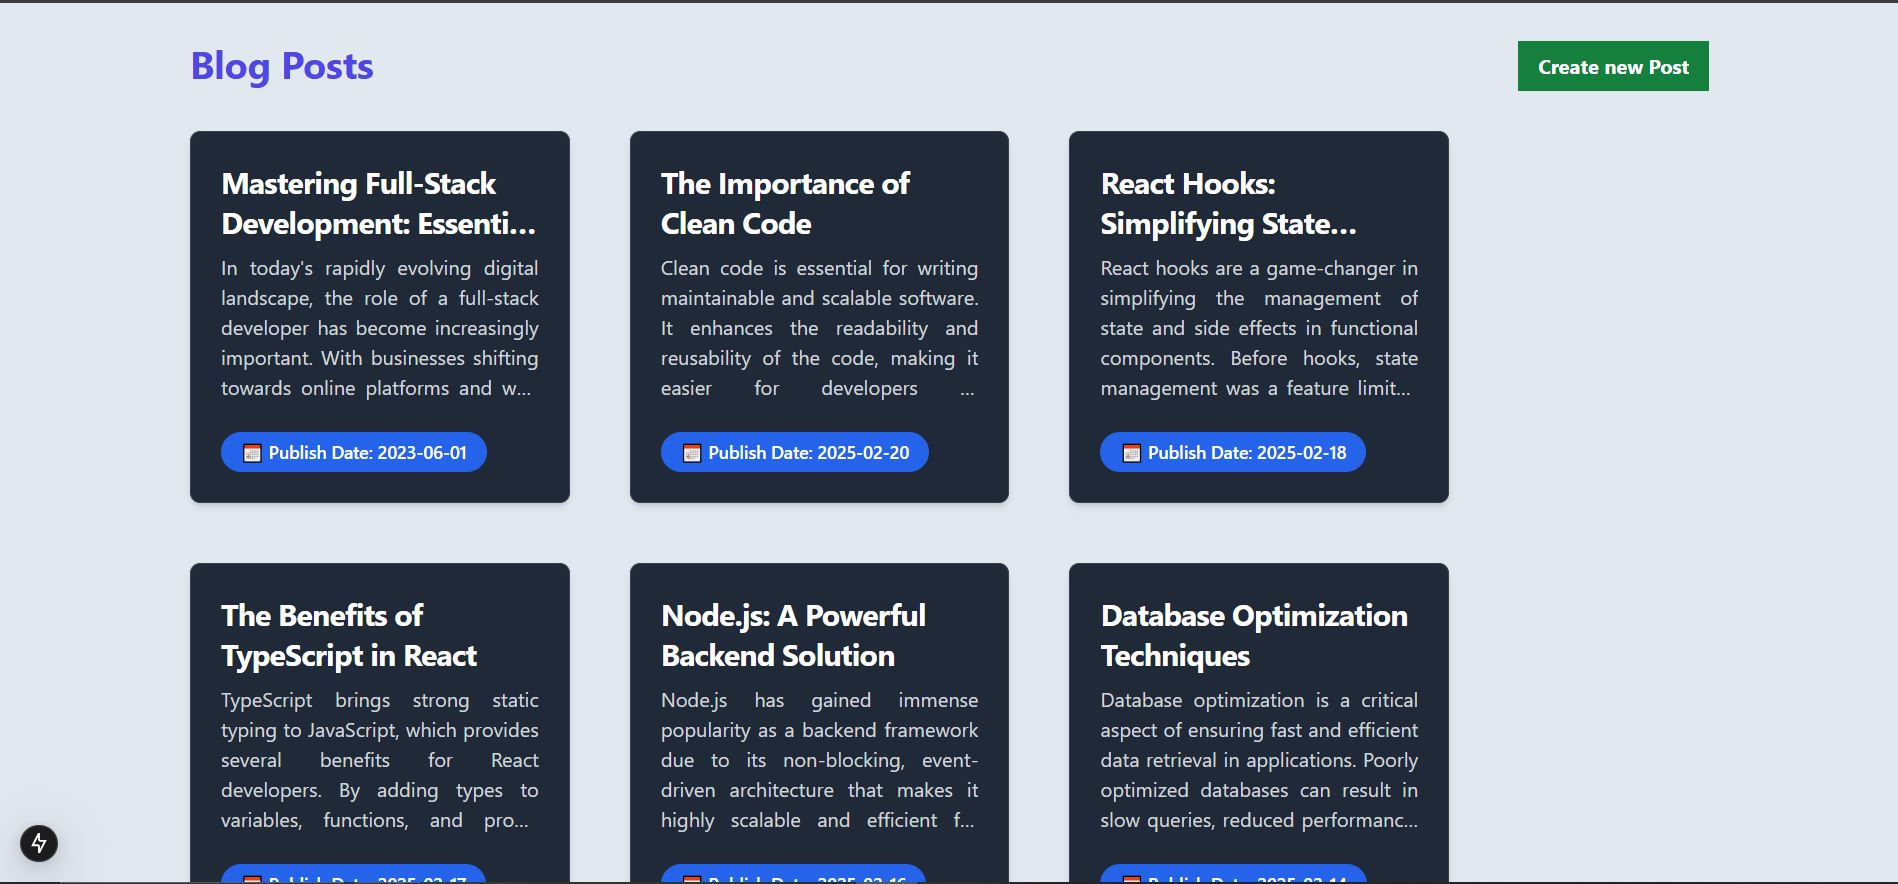
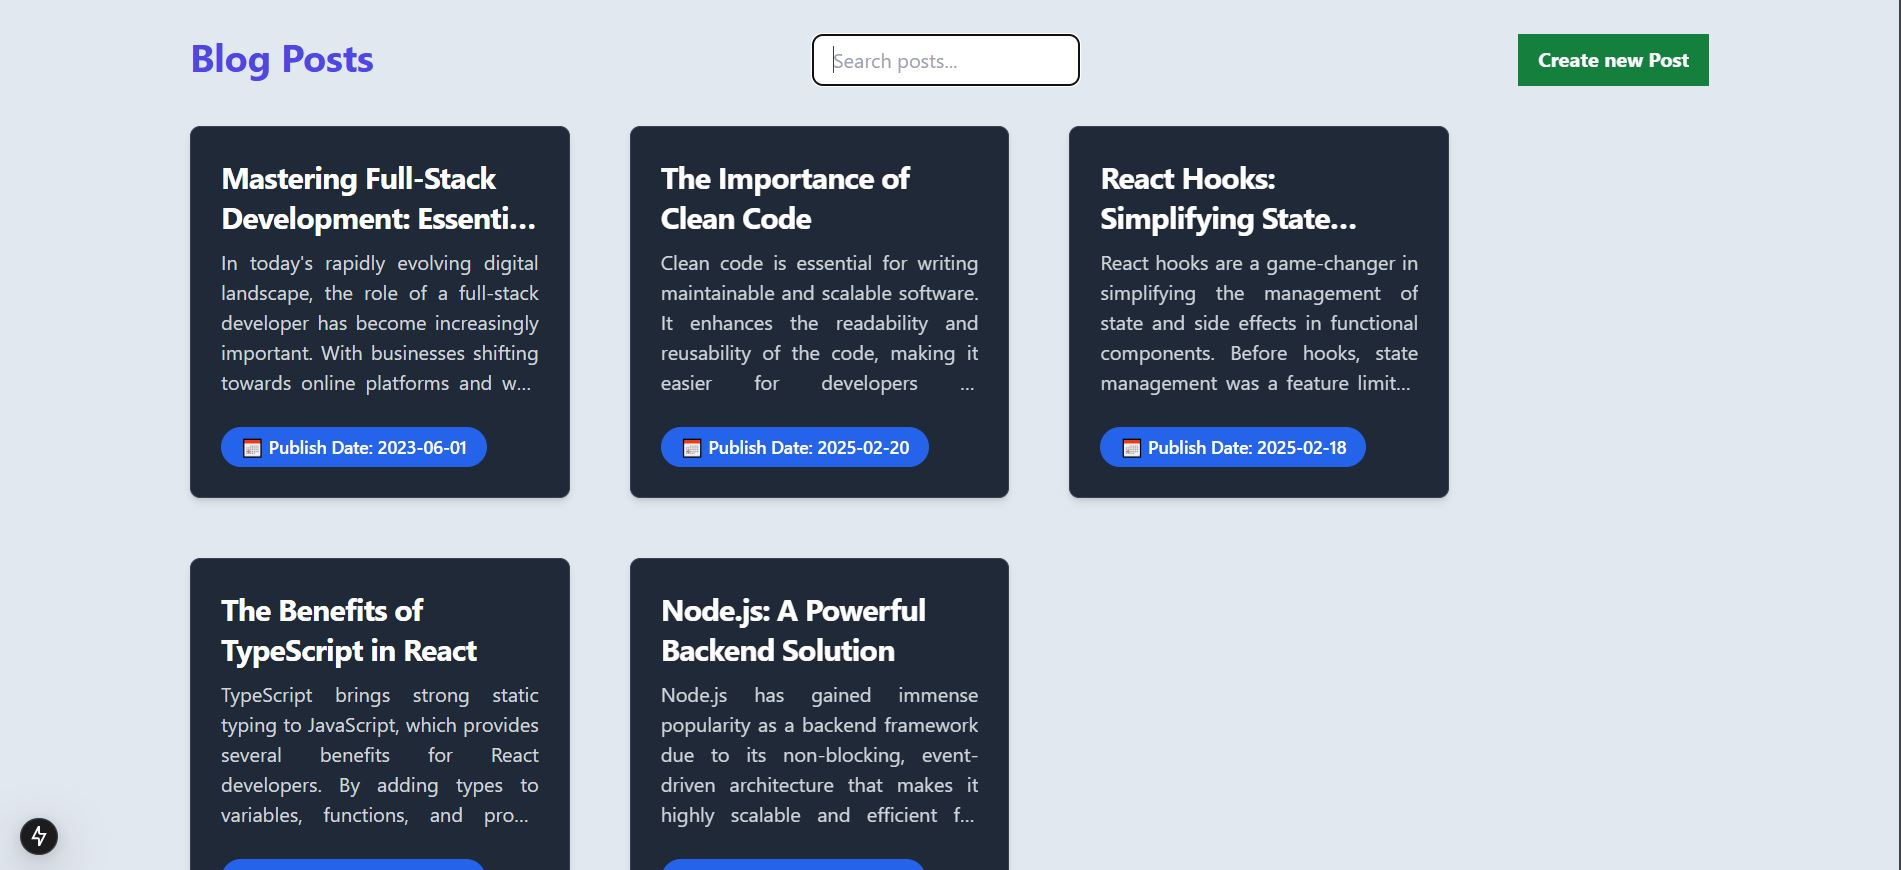
add pagination and dearch bar

diff --git a/app/posts/page.tsx b/app/posts/page.tsx
@@ -2,10 +2,14 @@
 import { useEffect, useState } from "react";
 import axios from "axios";
 import Link from "next/link";
+import Pagination from "@/component/Pagination"; 
 
 const Page = () => {
   const [posts, setPosts] = useState([]);
   const [loading, setLoading] = useState(true);
+  const [searchQuery, setSearchQuery] = useState(""); 
+  const [currentPage, setCurrentPage] = useState(1);
+  const postsPerPage = 5;
 
   const fetchRecords = async () => {
     try {
@@ -22,10 +26,33 @@ const Page = () => {
     fetchRecords();
   }, []);
 
+  const filteredPosts = posts.filter((post) =>
+    post.title.toLowerCase().includes(searchQuery.toLowerCase()) ||
+    post.content.toLowerCase().includes(searchQuery.toLowerCase())
+  );
+
+  const indexOfLastPost = currentPage * postsPerPage;
+  const indexOfFirstPost = indexOfLastPost - postsPerPage;
+
+  const currentPosts = filteredPosts.slice(indexOfFirstPost, indexOfLastPost);
+
+  const totalPages = Math.ceil(filteredPosts.length / postsPerPage);
+
+  const paginate = (pageNumber: number) => setCurrentPage(pageNumber);
+
   return (
     <div className="container py-8 bg-slate-200 text-white min-h-screen">
       <div className="flex justify-between pb-8">
         <h1 className="text-3xl font-bold text-indigo-600">Blog Posts</h1>
+
+        <input
+          type="text"
+          placeholder="Search posts..."
+          value={searchQuery}
+          onChange={(e) => setSearchQuery(e.target.value)}
+          className="px-4 py-2 rounded-lg border border-gray-300 text-gray-700"
+        />
+
         <Link href="/posts/create" className="bg-green-700 text-white font-bold py-2 px-4">
           Create new Post
         </Link>
@@ -43,24 +70,33 @@ const Page = () => {
                 <div className="h-4 bg-gray-600 rounded w-5/6"></div>
               </div>
             ))
-          : posts.map((post) => (
-                <Link key={post.id} href={`/posts/${post.id}`} passHref
-                  className="bg-gray-800 shadow-md border border-gray-700 rounded-lg w-full sm:w-1/2 lg:w-1/3 xl:w-1/4 flex flex-col h-auto transform transition duration-300 hover:scale-105 flex-shrink-0"
-                >
-                  <div className="p-6 flex-grow flex flex-col justify-between">
-                    <h5 className="text-white font-bold text-2xl tracking-tight mb-2 line-clamp-2">
-                      {post.title}
-                    </h5>
-                    <p className="font-normal text-gray-300 mb-6 flex-grow line-clamp-5 text-justify">
-                      {post.content}
-                    </p>
-                    <div className="bg-blue-600 hover:bg-blue-700 text-white font-medium py-1.5 px-4 rounded-full text-sm w-fit">
-                      📅 Publish Date: {post.date}
-                    </div>
+          : currentPosts.map((post) => (
+              <Link
+                key={post.id}
+                href={`/posts/${post.id}`}
+                passHref
+                className="bg-gray-800 shadow-md border border-gray-700 rounded-lg w-full sm:w-1/2 lg:w-1/3 xl:w-1/4 flex flex-col h-auto transform transition duration-300 hover:scale-105 flex-shrink-0"
+              >
+                <div className="p-6 flex-grow flex flex-col justify-between">
+                  <h5 className="text-white font-bold text-2xl tracking-tight mb-2 line-clamp-2">
+                    {post.title}
+                  </h5>
+                  <p className="font-normal text-gray-300 mb-6 flex-grow line-clamp-5 text-justify">
+                    {post.content}
+                  </p>
+                  <div className="bg-blue-600 hover:bg-blue-700 text-white font-medium py-1.5 px-4 rounded-full text-sm w-fit">
+                    📅 Publish Date: {post.date}
                   </div>
-                </Link>
+                </div>
+              </Link>
             ))}
       </div>
+
+      <Pagination
+        currentPage={currentPage}
+        totalPages={totalPages}
+        paginate={paginate}
+      />
     </div>
   );
 };

diff --git a/component/Pagination.tsx b/component/Pagination.tsx
@@ -1,0 +1,43 @@
+import React from "react";
+
+interface PaginationProps {
+  currentPage: number;
+  totalPages: number;
+  paginate: (pageNumber: number) => void;
+}
+
+const Pagination: React.FC<PaginationProps> = ({ currentPage, totalPages, paginate }) => {
+  return (
+    <div className="flex justify-center space-x-2 mt-8">
+      <button
+        onClick={() => paginate(currentPage - 1)}
+        disabled={currentPage === 1}
+        className="bg-indigo-600 hover:bg-indigo-700 text-white font-medium py-2 px-4 rounded-full"
+      >
+        Previous
+      </button>
+      {[...Array(totalPages)].map((_, index) => (
+        <button
+          key={index}
+          onClick={() => paginate(index + 1)}
+          className={`${
+            currentPage === index + 1
+              ? "bg-indigo-600 text-white"
+              : "bg-gray-200 text-gray-700"
+          } hover:bg-indigo-700 hover:text-white py-2 px-4 rounded-full`}
+        >
+          {index + 1}
+        </button>
+      ))}
+      <button
+        onClick={() => paginate(currentPage + 1)}
+        disabled={currentPage === totalPages}
+        className="bg-indigo-600 hover:bg-indigo-700 text-white font-medium py-2 px-4 rounded-full"
+      >
+        Next
+      </button>
+    </div>
+  );
+};
+
+export default Pagination;

diff --git a/README.md b/README.md
@@ -1,6 +1,6 @@
 # Next Yatri
-
-## TO Run Project
+<p>This project is built with Next.js and Tailwind CSS. It allows users to add posts via a Create Post page, with posts displayed on the home page in a grid layout. Only five posts are shown per page with pagination for navigation. Users can also search to filter posts. Clicking on a post card leads to the Blog Detail page, which displays the title, content, and publication date of the selected post.
+## TO Run Project</p>
 
 ### Step 1: Run the next app 
 ```bash
@@ -16,6 +16,11 @@ npm run server
 ## SCREENSHOT
 
 ![GAME](./public/ss1.JPG)
+
 ![GAME](./public/ss2.JPG)
+
 ![GAME](./public/ss3.JPG)
+
+![GAME](./public/ss4.JPG)
+
 
